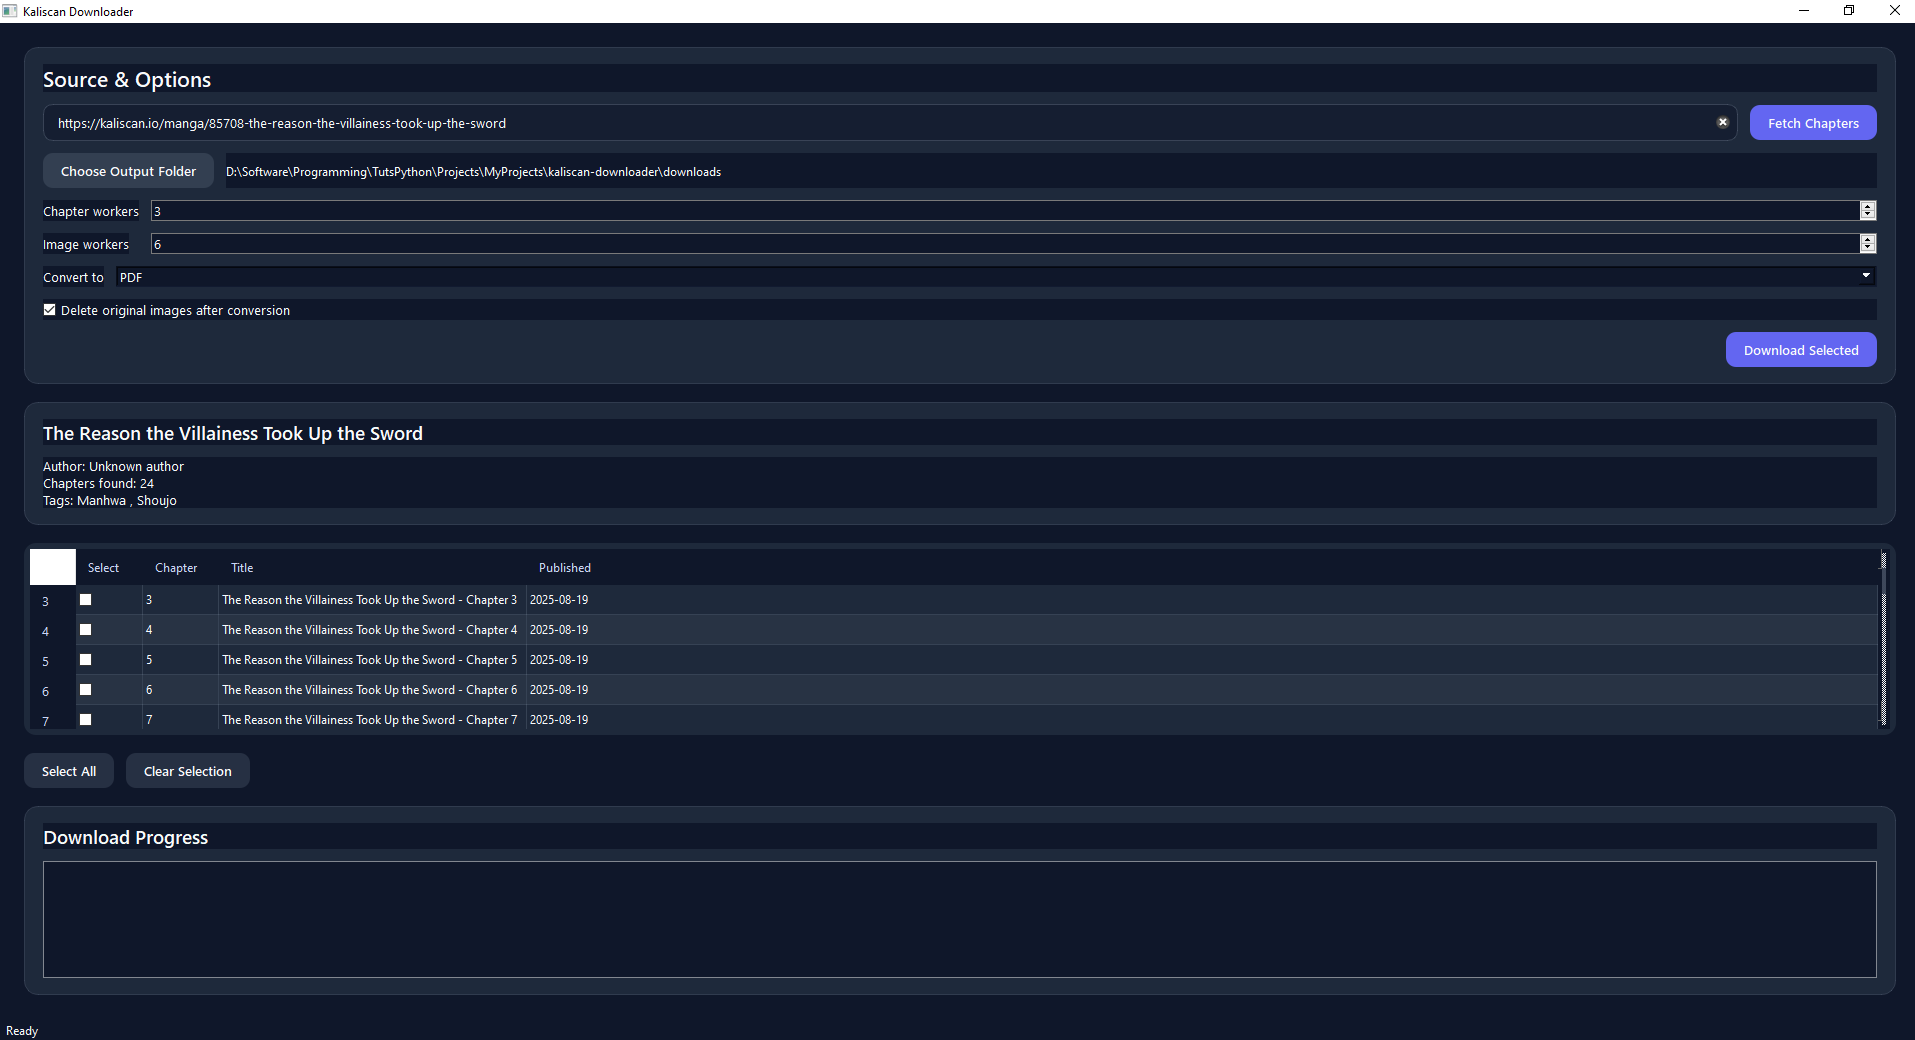
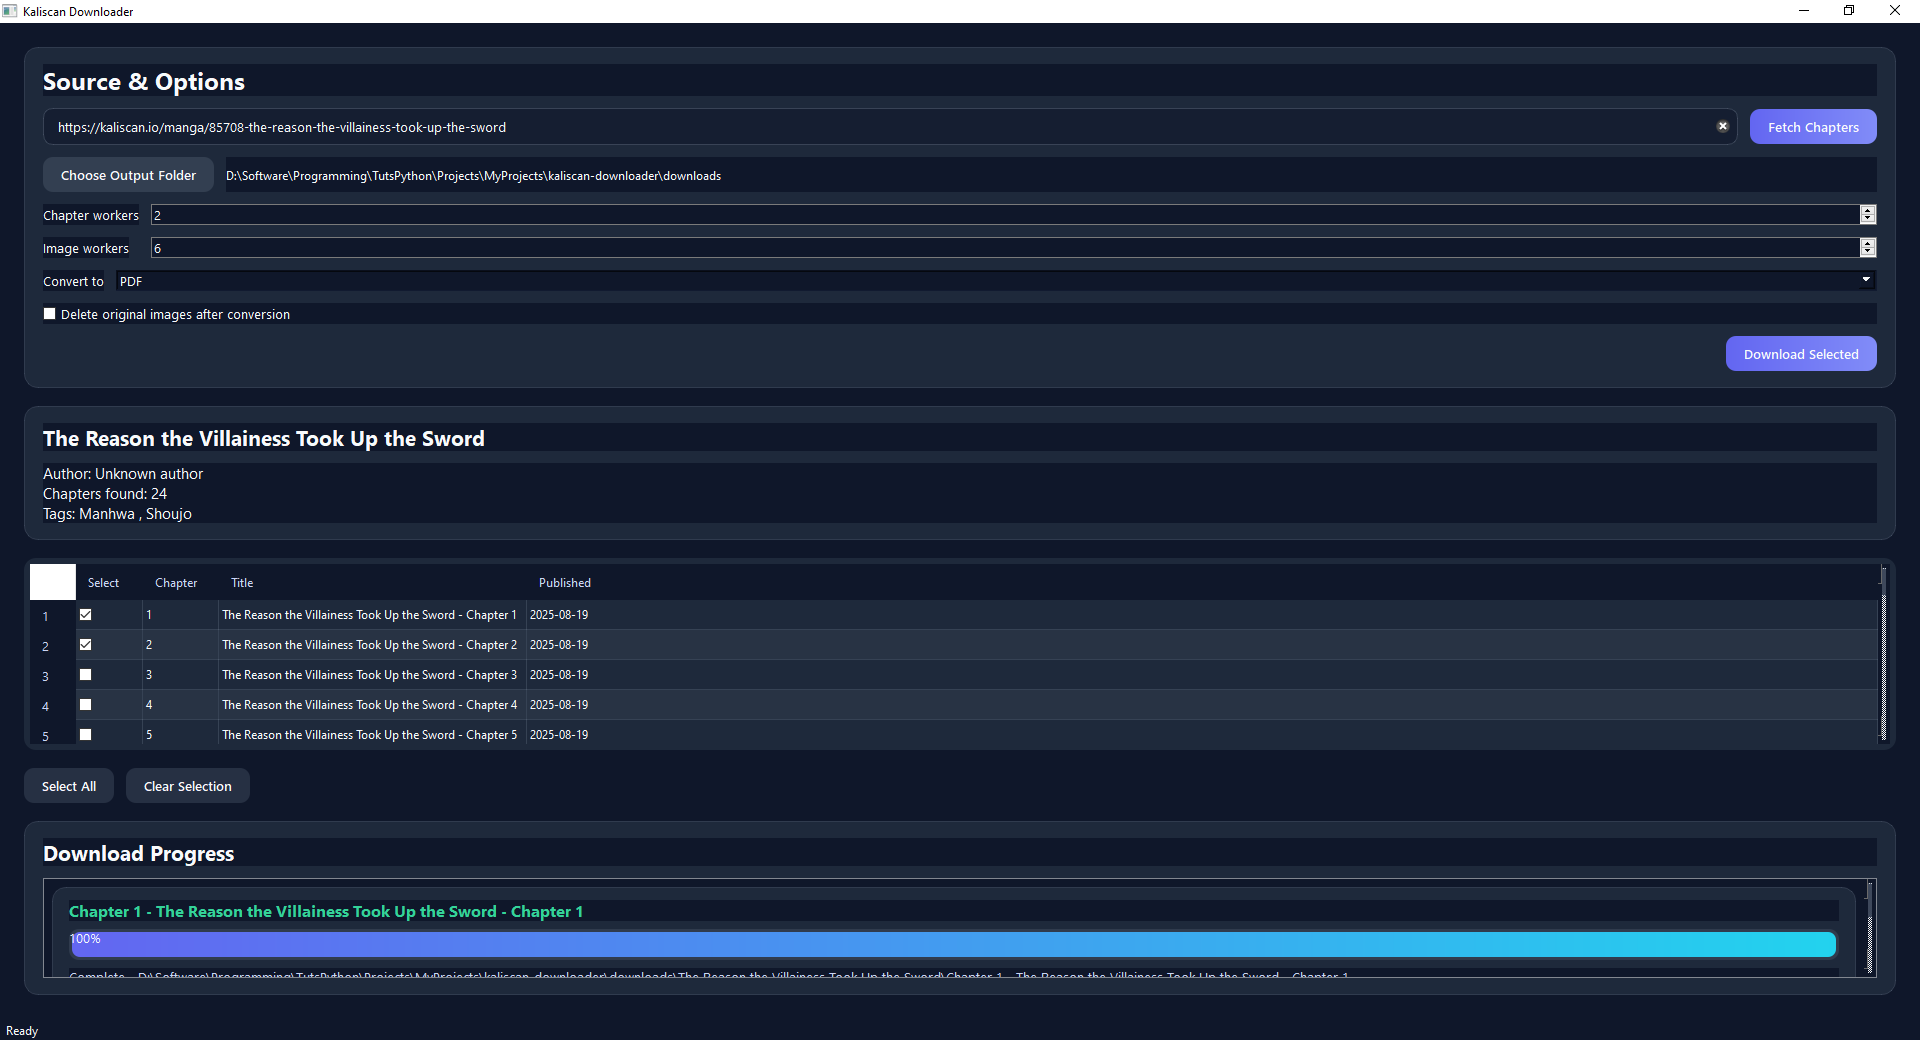
feat(gui): Update font sizes and button styles for improved UI aesthetics

diff --git a/gui_main_window.py b/gui_main_window.py
@@ -54,7 +54,7 @@ class MainWindow(QMainWindow):
         assert isinstance(card_layout, QVBoxLayout)
 
         title = QLabel('Source & Options')
-        title.setFont(headline_font(16))
+        title.setFont(headline_font(18))
         card_layout.addWidget(title)
 
         url_row = QHBoxLayout()
@@ -112,11 +112,11 @@ class MainWindow(QMainWindow):
         info_layout = self._info_card.layout()
         assert isinstance(info_layout, QVBoxLayout)
         self.manga_title = QLabel('No manga loaded yet.')
-        self.manga_title.setFont(headline_font(14))
+        self.manga_title.setFont(headline_font(16))
         self.manga_title.setWordWrap(True)
         info_layout.addWidget(self.manga_title)
         self.manga_meta = QLabel('Enter a valid URL to begin.')
-        self.manga_meta.setFont(body_font(10))
+        self.manga_meta.setFont(body_font(11))
         self.manga_meta.setWordWrap(True)
         info_layout.addWidget(self.manga_meta)
         main_layout.addWidget(self._info_card)
@@ -143,7 +143,7 @@ class MainWindow(QMainWindow):
         progress_layout = progress_card.layout()
         assert isinstance(progress_layout, QVBoxLayout)
         progress_title = QLabel('Download Progress')
-        progress_title.setFont(headline_font(14))
+        progress_title.setFont(headline_font(16))
         progress_layout.addWidget(progress_title)
         self.progress_list = ProgressListWidget()
         progress_layout.addWidget(self.progress_list)

diff --git a/styles.py b/styles.py
@@ -85,12 +85,12 @@ QPushButton {{
 }}
 
 QPushButton#PrimaryButton {{
-    background-color: {PRIMARY_COLOR};
+    background: qlineargradient(x1:0, y1:0, x2:1, y2:0, stop:0 #6366F1, stop:1 #818CF8);
     color: {PRIMARY_TEXT};
 }}
 
 QPushButton#PrimaryButton:hover {{
-    background-color: #4F46E5;
+    background: qlineargradient(x1:0, y1:0, x2:1, y2:0, stop:0 #4F46E5, stop:1 #6366F1);
 }}
 
 QPushButton#PrimaryButton:disabled {{
@@ -105,6 +105,7 @@ QPushButton#SecondaryButton {{
 
 QPushButton#SecondaryButton:hover {{
     background-color: rgba(148, 163, 184, 0.25);
+    border: 1px solid rgba(148, 163, 184, 0.3);
 }}
 """
 
@@ -126,13 +127,13 @@ def apply_theme(app: QApplication) -> None:
     app.setStyleSheet(_BASE_STYLESHEET)
 
 
-def headline_font(size: int = 14, weight: int = QFont.Weight.DemiBold) -> QFont:
+def headline_font(size: int = 16, weight: int = QFont.Weight.Bold) -> QFont:
     font = QFont(FONT_FAMILY, size)
     font.setWeight(weight)
     return font
 
 
-def body_font(size: int = 10) -> QFont:
+def body_font(size: int = 11) -> QFont:
     return QFont(FONT_FAMILY, size)
 
 

diff --git a/README.md b/README.md
@@ -6,8 +6,6 @@
 
 A powerful and flexible downloader for the Kaliscan manga website, featuring both a rich graphical user interface (GUI) and a command-line interface (CLI). Scrape manga metadata, download chapters, and convert them to PDF or CBZ formats with ease.
 
-This project is hosted at [https://github.com/Yui007/kaliscan-downloader](https://github.com/Yui007/kaliscan-downloader).
-
 ## Features
 
 -   **Dual Interface**: Choose between a user-friendly GUI or a scriptable CLI.
